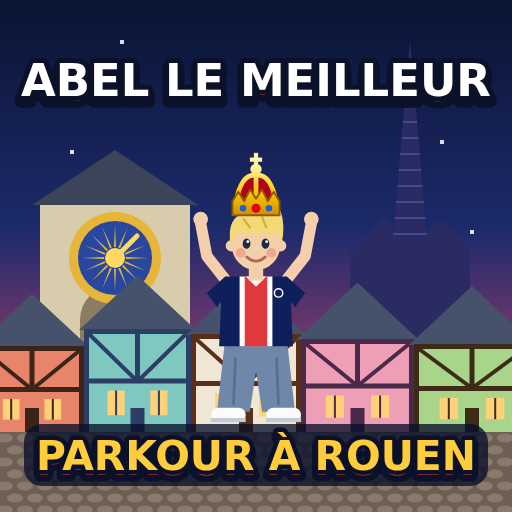
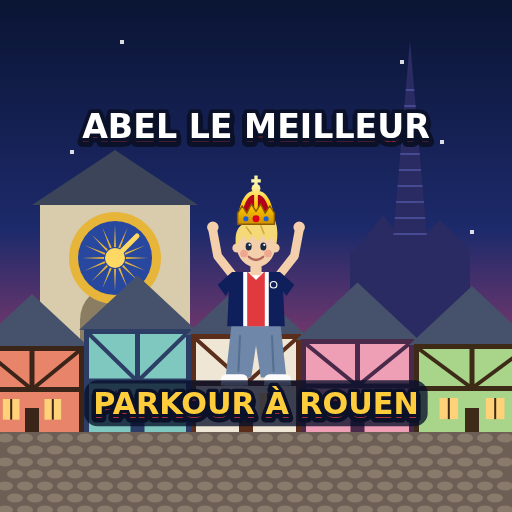
Match the parkour branch to main
Claude-Session: https://claude.ai/code/session_01U98iTgyVaJcwj1DoMc88b9

diff --git a/parkour/sw.js b/parkour/sw.js
@@ -1,5 +1,5 @@
 // Offline cache: network first, fall back to cache.
-const CACHE = 'parkour-v5';
+const CACHE = 'parkour-v6';
 self.addEventListener('install', e => { e.waitUntil(caches.open(CACHE).then(c => c.addAll(['./', 'index.html', 'manifest.webmanifest', 'icon.svg', 'icon-192.png', 'icon-512.png', 'icon-maskable-512.png']))); self.skipWaiting(); });
 self.addEventListener('activate', e => e.waitUntil(self.clients.claim()));
 self.addEventListener('fetch', e => {
